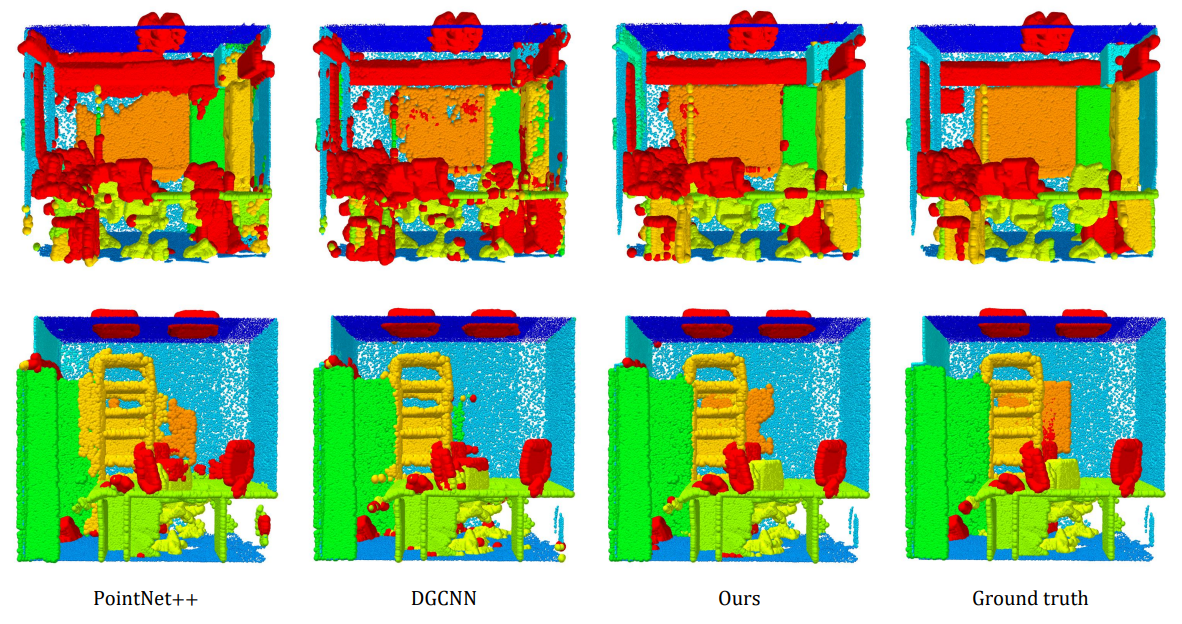
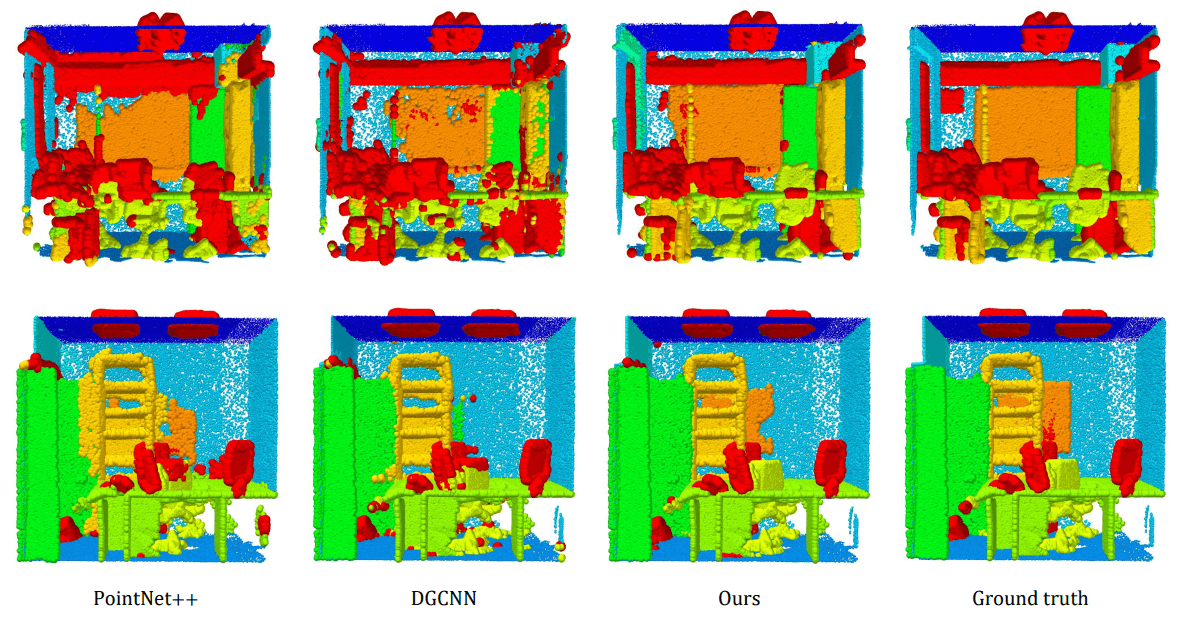
update

diff --git a/index.html b/index.html
@@ -171,7 +171,7 @@ The first attempt to lift up the vision-language foundation model CLIP to the 3D
 
   <tr>
     <td style="width:25%;vertical-align:middle">
-        <img src='assets/papers/nips21_once.png' width="200">
+        <img src='assets/papers/nips21_once.jpg' width="200">
     </td>
     <td style="width:75%;vertical-align:middle">
       <a href="https://arxiv.org/pdf/2106.11037.pdf">
